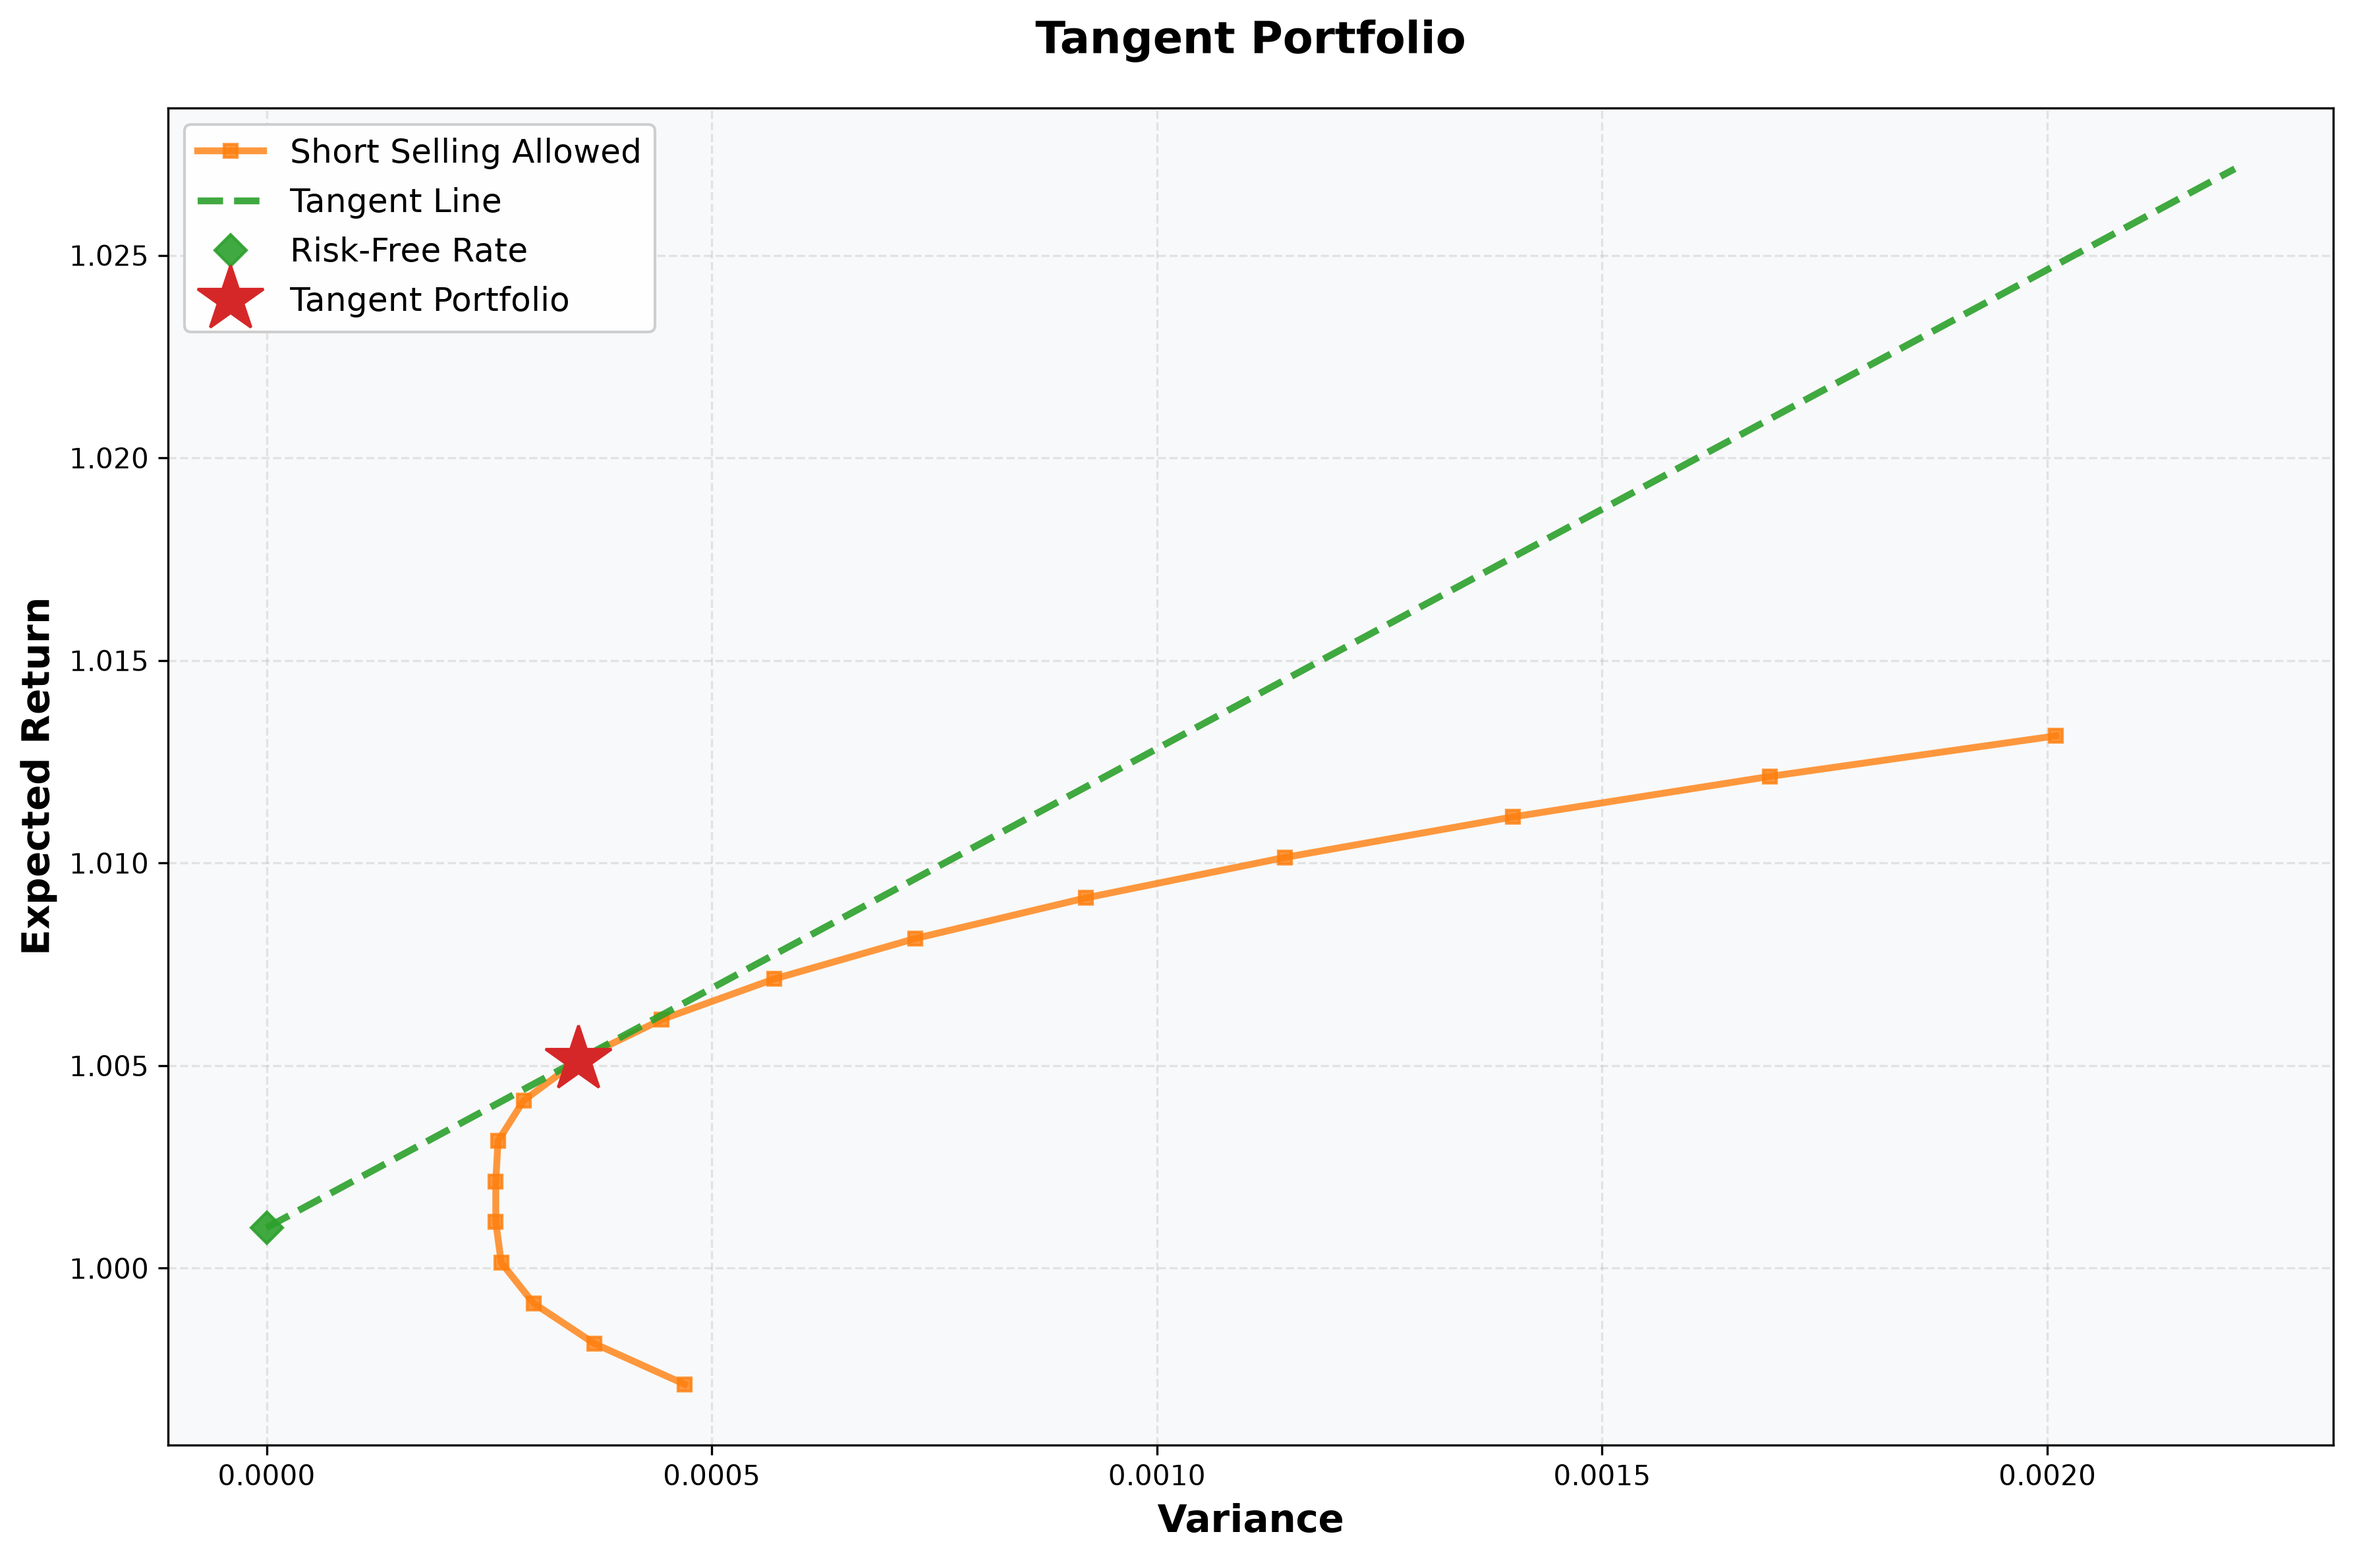
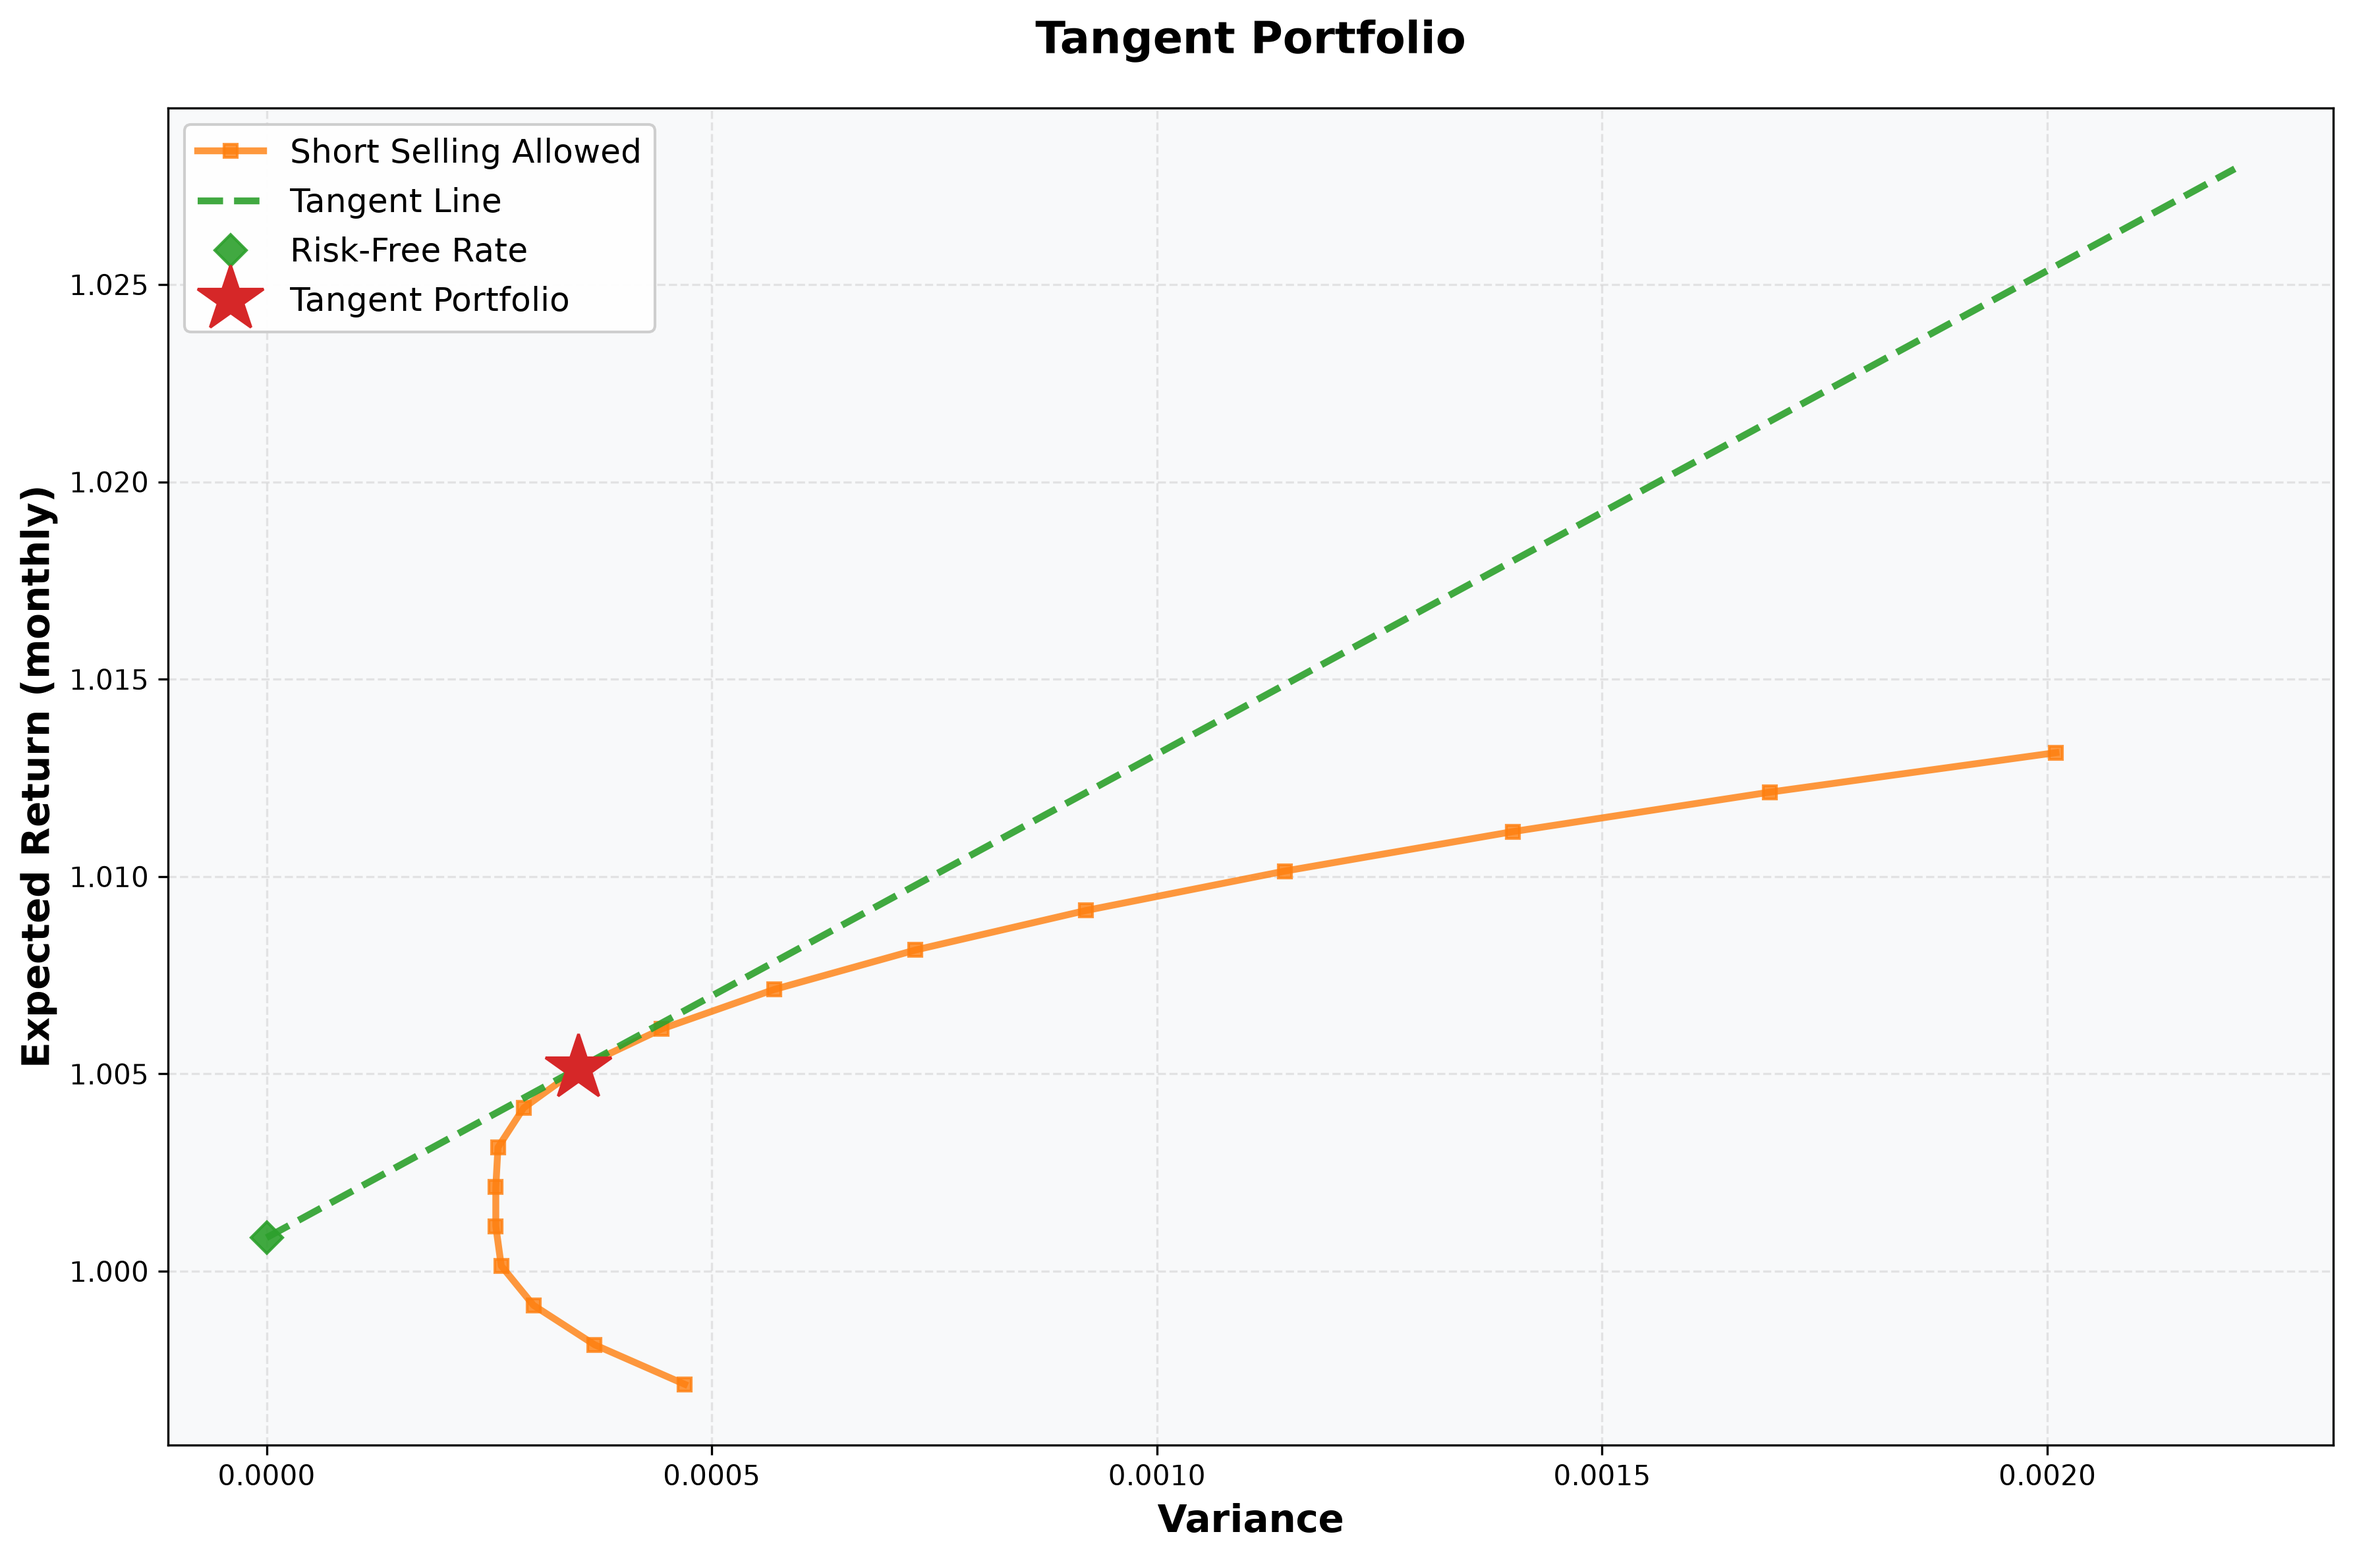
Before trying to max timer

diff --git a/prelim-assign/codebase/src/codebase/solver.py b/prelim-assign/codebase/src/codebase/solver.py
@@ -6,7 +6,7 @@ import numpy as np
 def main_optimization_model(mu, cov, tickers, target_return, allow_short=False):
     n = len(mu)
     assets = range(n)
-    tolerance = 0.0010 #This is important!
+    tolerance = 0.0002 #This is important!
 
     model = pyo.ConcreteModel()
     model.w = pyo.Var(assets, domain=pyo.Reals if allow_short else pyo.NonNegativeReals)
@@ -115,7 +115,7 @@ print("Results written to solver.output.json")
 
 #### Bonus: Max 3 vars
 
-def max_3_optimization_model(mu, cov, tickers, target_return, allow_short=False):
+def max_3_optimization_model(mu, cov, tickers, target_return, allow_short=False, max_stocks=None):
     n = len(mu)
     assets = range(n)
     tolerance = 0.0010 #This is important!
@@ -134,15 +134,61 @@ def max_3_optimization_model(mu, cov, tickers, target_return, allow_short=False)
         expr=sum(model.w[i] * mu[i] for i in assets) <= target_return + tolerance
     )
 
+    # Big-M constraints for cardinality (max number of stocks)
+    if max_stocks is not None:
+        model.x = pyo.Var(assets, domain=pyo.Binary)
+        model.cardinality = pyo.Constraint(expr=sum(model.x[i] for i in assets) <= max_stocks)
+        model.big_m = pyo.ConstraintList()
+        for i in assets:
+            model.big_m.add(model.w[i] <= model.x[i])
+        solver = pyo.SolverFactory("scip")
+    else:
+        solver = pyo.SolverFactory("highs")
 
     model.obj = pyo.Objective(
-        expr=sum(model.w[i] * cov[i][j] * model.w[j] for i in assets for j in assets), 
+        expr=sum(model.w[i] * cov[i][j] * model.w[j] for i in assets for j in assets),
         sense=pyo.minimize,
     )
 
-    solver = pyo.SolverFactory("highs")
     result = solver.solve(model)
     objective_value = pyo.value(model.obj)
 
     weights = {tickers[i]: pyo.value(model.w[i]) for i in assets}
     return weights, result, objective_value
+
+
+#### Bonus: Max 3 stocks with big-M method (no short selling)
+
+print("\n" + "="*70)
+print("BONUS ANALYSIS: MAX 3 STOCKS PORTFOLIO (NO SHORT SELLING)")
+print("="*70)
+
+target_return_max3 = 1.002
+allow_short_max3 = False
+
+try:
+    weights_max3, result_max3, variance_max3 = max_3_optimization_model(
+        mu, cov, tickers, target_return=target_return_max3, allow_short=allow_short_max3, max_stocks=3
+    )
+
+    # Print detailed results
+    print(f"\nTarget Return: {target_return_max3}")
+    print(f"Portfolio Variance: {variance_max3:.8f}")
+    print(f"Actual Portfolio Return: {sum(weights_max3[tickers[i]] * mu[i] for i in range(len(mu))):.8f}")
+    print(f"Solver Status: {result_max3.solver.status}")
+    print(f"Termination Condition: {result_max3.solver.termination_condition}")
+
+    print("\nStocks in Portfolio (with non-zero weights):")
+    selected_stocks = [(ticker, weight) for ticker, weight in weights_max3.items() if abs(weight) > 1e-6]
+    selected_stocks.sort(key=lambda x: abs(x[1]), reverse=True)
+
+    num_stocks = len(selected_stocks)
+    print(f"Number of stocks selected: {num_stocks}")
+
+    for ticker, weight in selected_stocks:
+        print(f"  {ticker}: {weight:.6f}")
+
+    print("\n" + "="*70)
+
+except Exception as e:
+    raise ValueError(f"Max-3 stocks analysis failed. SCIP solver may not be available. Error: {e}")

diff --git a/prelim-assign/codebase/src/codebase/plot_frontier_mpl.py b/prelim-assign/codebase/src/codebase/plot_frontier_mpl.py
@@ -28,7 +28,7 @@ ax.plot(variance_short, returns_short, 's-', linewidth=2.5, markersize=5,
 
 # Labels and title
 ax.set_xlabel('Variance', fontsize=14, fontweight='bold')
-ax.set_ylabel('Expected Return', fontsize=14, fontweight='bold')
+ax.set_ylabel('Expected Return (monthly)', fontsize=14, fontweight='bold')
 ax.set_title('Optimization Results',
              fontsize=16, fontweight='bold', pad=20)
 
@@ -153,7 +153,7 @@ else:
 
     # Labels and title
     ax.set_xlabel('Variance', fontsize=14, fontweight='bold')
-    ax.set_ylabel('Expected Return', fontsize=14, fontweight='bold')
+    ax.set_ylabel('Expected Return (monthly)', fontsize=14, fontweight='bold')
     ax.set_title('Tangent Portfolio',
                  fontsize=16, fontweight='bold', pad=20)
 

diff --git a/prelim-assign/prelim-assign-report.md b/prelim-assign/prelim-assign-report.md
@@ -148,6 +148,9 @@ w_i \leq M \cdot x_i \quad & \forall i
 $$
 Since no short selling is allowed, it is sufficient to set M = 1
 
-This makes the problem into a MiP problem. 
+This makes the problem into a MiP problem. WORKING ON IT
 
 ### Bonus, tangent porfolio
+![[tangent_portfolio.png]]
+
+You write here Breuc
